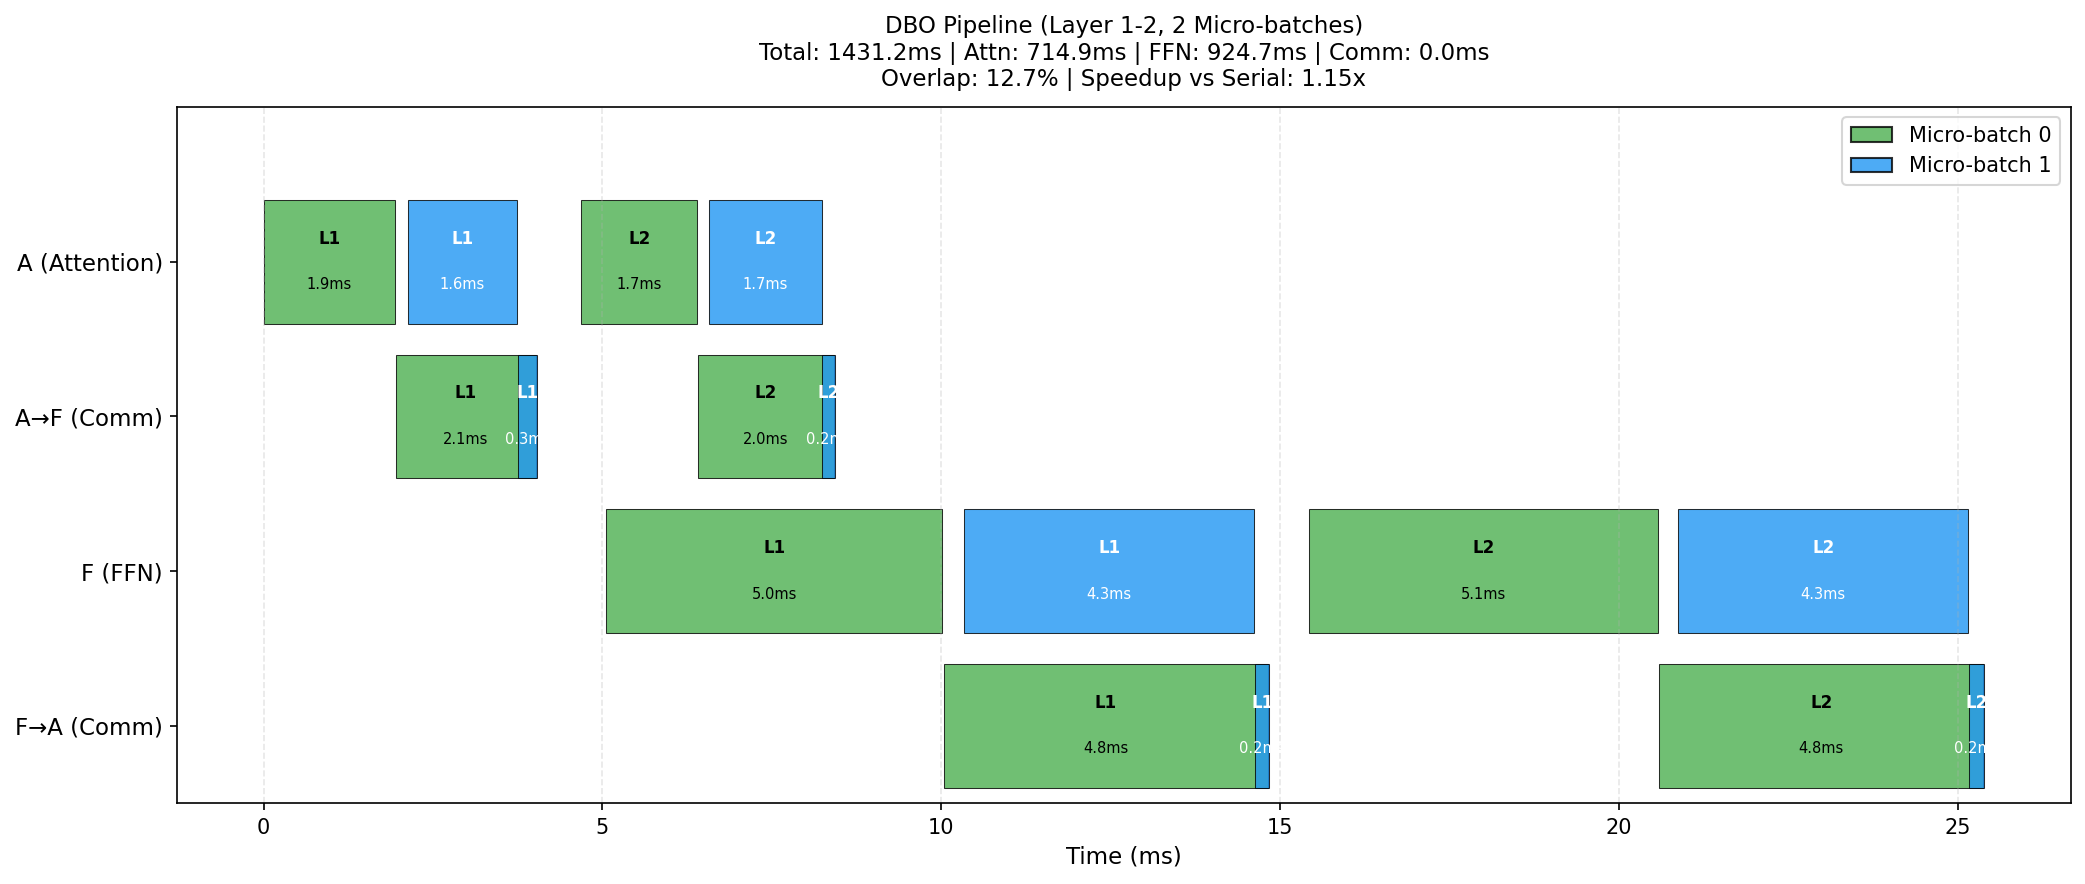
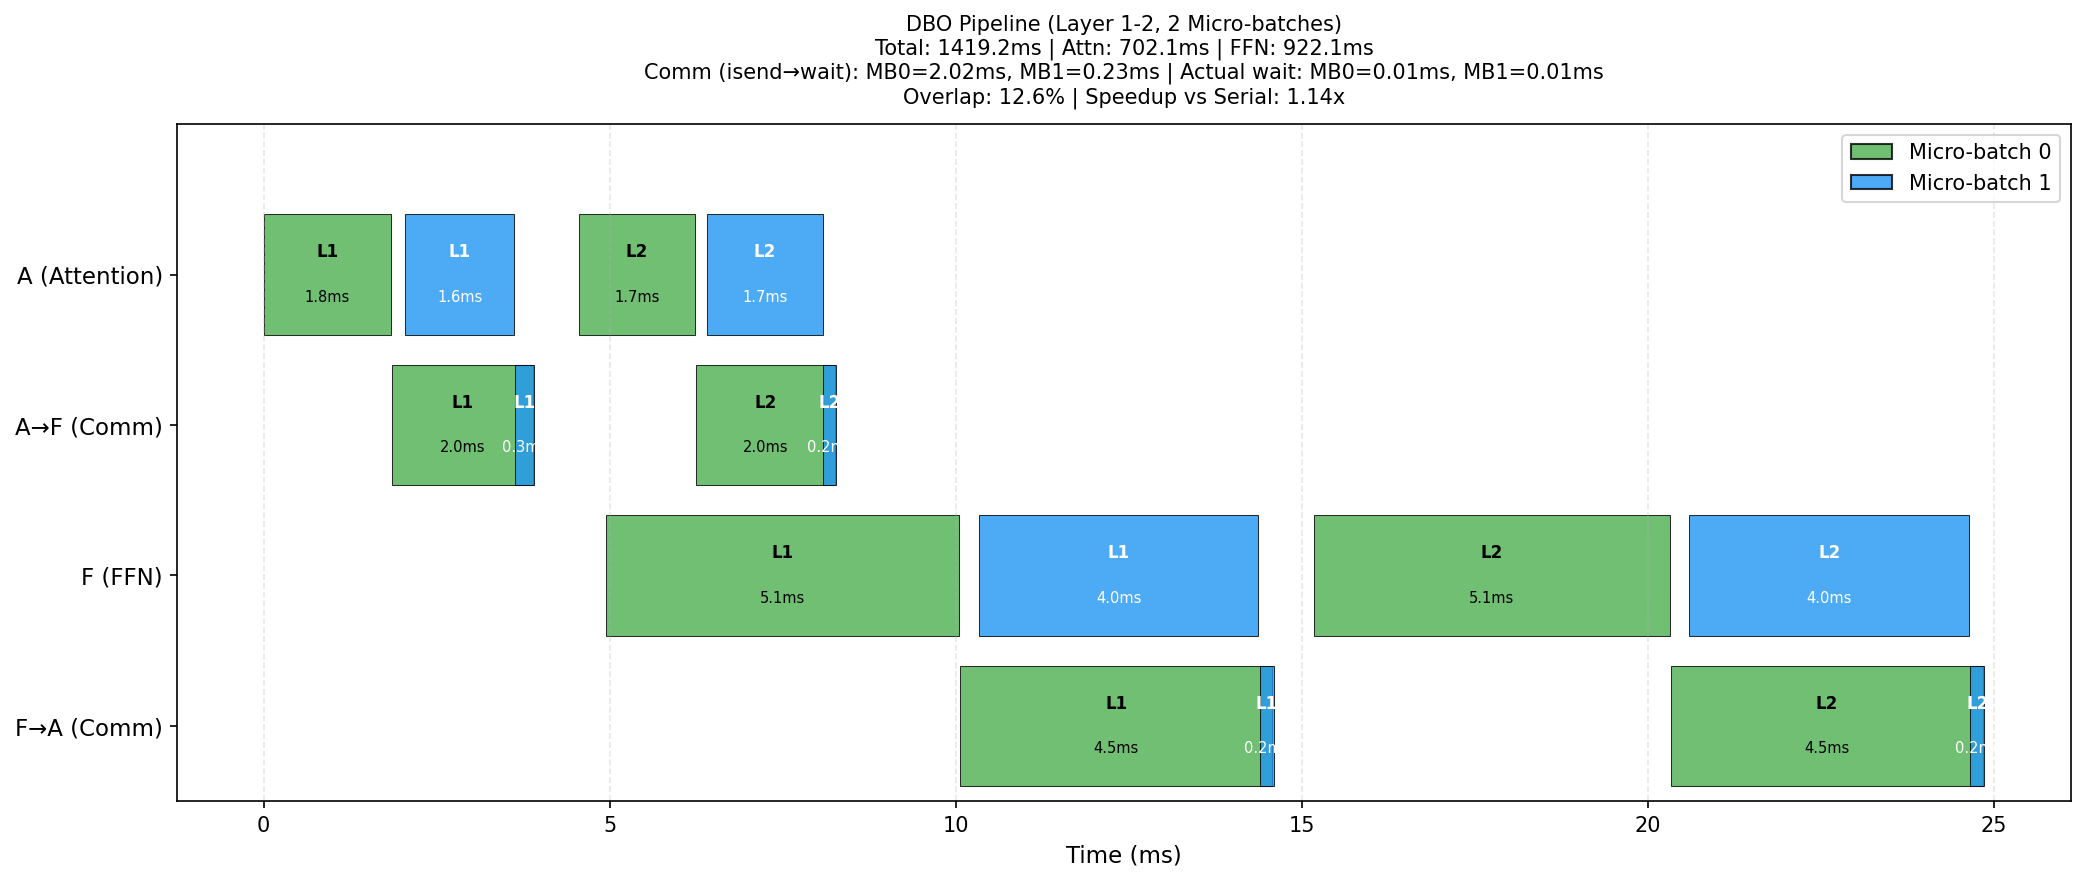
Add communication time details to visualization
- Show per-MB communication times in title:
  - Comm (isend→wait): MB0 and MB1 average times
  - Actual wait: Real wait() duration for each MB

This helps understand DBO overlap:
- MB0 isend→wait appears long because it includes MB1 compute
- MB1 isend→wait is short because transfer overlaps with MB0 wait
- Actual wait for both MBs is ~0.01ms (transfer completed before wait)

diff --git a/scripts/visualize_dbo_pipeline.py b/scripts/visualize_dbo_pipeline.py
@@ -212,6 +212,22 @@ def plot_pipeline(lanes_data: dict, attn_data: dict, ffn_data: dict,
     ffn_recv = ffn_data.get('total_recv_wait_ms', 0)
     total_comm = attn_send + ffn_send  # 单向通信各算一次
     
+    # 计算各 MB 的通信时间 (从 events 中提取)
+    attn_events = attn_data.get('events', [])
+    mb0_send_times = [e['duration_ms'] for e in attn_events 
+                     if e['type'] == 'send_wait' and e['mb'] == 0 and start_layer <= e['layer'] < start_layer + num_layers]
+    mb1_send_times = [e['duration_ms'] for e in attn_events
+                     if e['type'] == 'send_wait' and e['mb'] == 1 and start_layer <= e['layer'] < start_layer + num_layers]
+    mb0_actual_wait = [e['duration_ms'] for e in attn_events
+                      if e['type'] == 'send_actual_wait' and e['mb'] == 0 and start_layer <= e['layer'] < start_layer + num_layers]
+    mb1_actual_wait = [e['duration_ms'] for e in attn_events
+                      if e['type'] == 'send_actual_wait' and e['mb'] == 1 and start_layer <= e['layer'] < start_layer + num_layers]
+    
+    mb0_send_avg = sum(mb0_send_times) / len(mb0_send_times) if mb0_send_times else 0
+    mb1_send_avg = sum(mb1_send_times) / len(mb1_send_times) if mb1_send_times else 0
+    mb0_actual_avg = sum(mb0_actual_wait) / len(mb0_actual_wait) if mb0_actual_wait else 0
+    mb1_actual_avg = sum(mb1_actual_wait) / len(mb1_actual_wait) if mb1_actual_wait else 0
+    
     # 理论串行时间 = 计算 + 通信 (无重叠)
     serial_time = attn_compute + ffn_compute + total_comm
     
@@ -227,10 +243,11 @@ def plot_pipeline(lanes_data: dict, attn_data: dict, ffn_data: dict,
     end_layer = start_layer + num_layers - 1
     title = f'DBO Pipeline (Layer {start_layer}-{end_layer}, {num_mb} Micro-batches)'
     
-    stats_line1 = f"Total: {total_inference_time:.1f}ms | Attn: {attn_compute:.1f}ms | FFN: {ffn_compute:.1f}ms | Comm: {total_comm:.1f}ms"
-    stats_line2 = f"Overlap: {overlap_ratio:.1f}% | Speedup vs Serial: {speedup:.2f}x"
+    stats_line1 = f"Total: {total_inference_time:.1f}ms | Attn: {attn_compute:.1f}ms | FFN: {ffn_compute:.1f}ms"
+    stats_line2 = f"Comm (isend→wait): MB0={mb0_send_avg:.2f}ms, MB1={mb1_send_avg:.2f}ms | Actual wait: MB0={mb0_actual_avg:.2f}ms, MB1={mb1_actual_avg:.2f}ms"
+    stats_line3 = f"Overlap: {overlap_ratio:.1f}% | Speedup vs Serial: {speedup:.2f}x"
     
-    ax.set_title(f'{title}\n{stats_line1}\n{stats_line2}', fontsize=11, pad=10)
+    ax.set_title(f'{title}\n{stats_line1}\n{stats_line2}\n{stats_line3}', fontsize=10, pad=10)
     
     # 图例
     legend_elements = [
